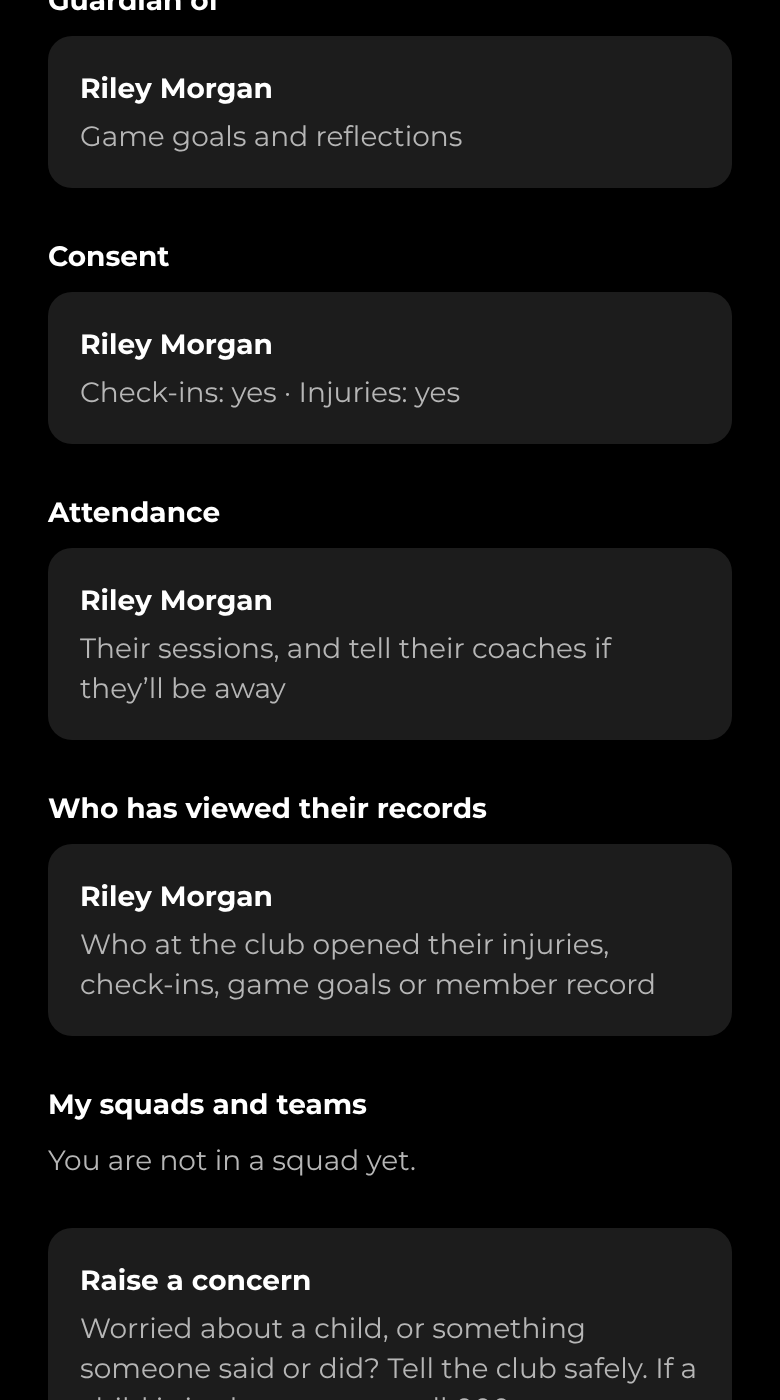
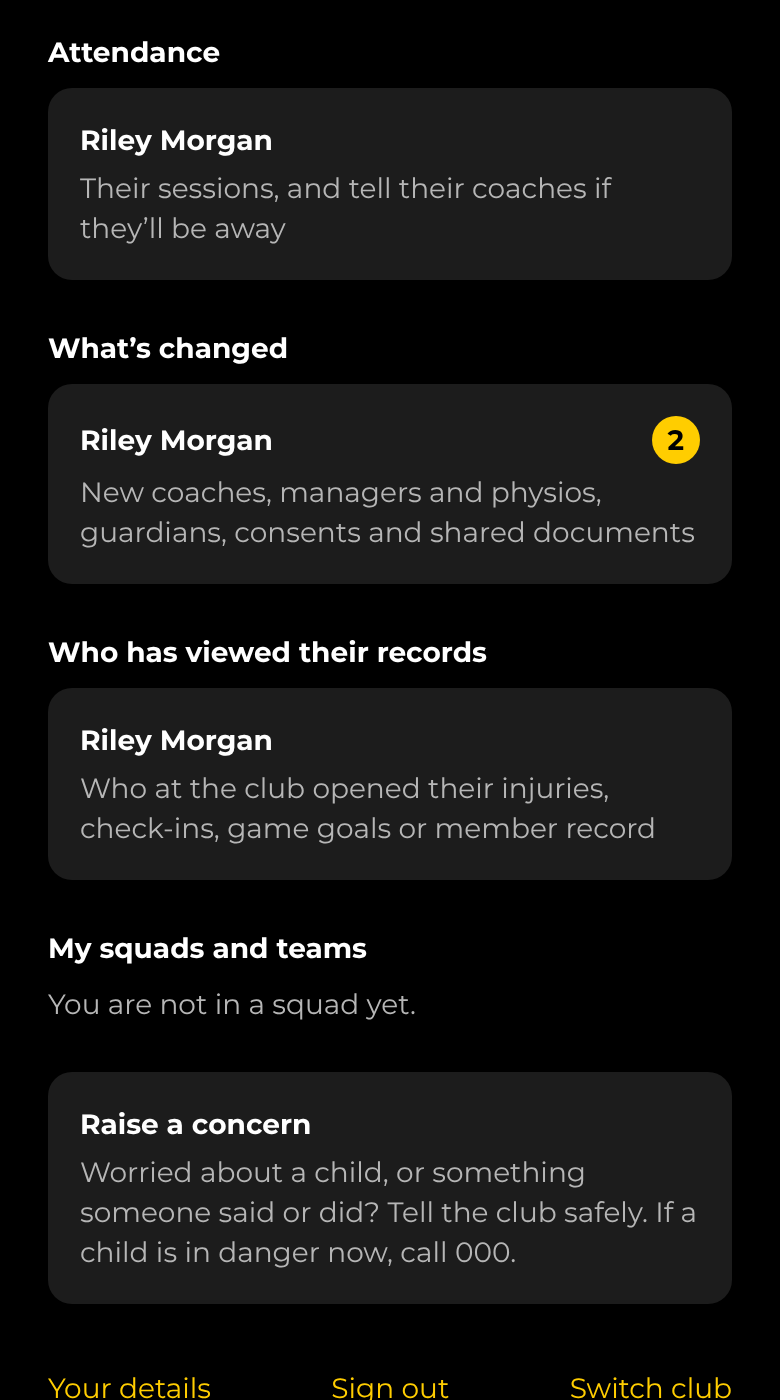
Show parents what has changed around their child (child safety finding 13)
Guardians get a "What's changed" list per child under 18: coaches, managers
and physios joining or leaving the child's squads and teams, the child's own
group changes, guardian links, consents and shared injury documents, with a
count of new items on the home screen.

Claude-Session: https://claude.ai/code/session_01PSj6UtGHkyxoGwMZG7YNkM

diff --git a/src/app/activity/[id].tsx b/src/app/activity/[id].tsx
@@ -1,0 +1,75 @@
+import { useFocusEffect, useLocalSearchParams } from 'expo-router';
+import { useCallback, useState } from 'react';
+import { StyleSheet, View } from 'react-native';
+
+import { Screen } from '@/components/screen';
+import { ThemedText } from '@/components/themed-text';
+import { Card } from '@/components/ui';
+import { Spacing } from '@/constants/theme';
+import { formatDateTime } from '@/lib/format';
+import { supabase } from '@/lib/supabase';
+
+type Activity = { kind: string; summary: string; happened_at: string };
+
+/**
+ * What has changed around an under 18, newest first, for their parents and
+ * guardians: adults joining or leaving their squads and teams, the child's
+ * own groups, guardian links, consents and shared injury documents.
+ */
+export default function ChildActivityScreen() {
+  const { id, name } = useLocalSearchParams<{ id: string; name?: string }>();
+  const [entries, setEntries] = useState<Activity[] | null>(null);
+  const [refreshing, setRefreshing] = useState(false);
+
+  const load = useCallback(async () => {
+    const { data } = await supabase.rpc('child_activity', { p_athlete_id: id });
+    setEntries((data as Activity[] | null) ?? []);
+    await supabase.rpc('mark_child_activity_seen', { p_athlete_id: id });
+  }, [id]);
+
+  useFocusEffect(
+    useCallback(() => {
+      load();
+    }, [load]),
+  );
+
+  async function onRefresh() {
+    setRefreshing(true);
+    await load();
+    setRefreshing(false);
+  }
+
+  const who = name ? `${name}’s` : 'their';
+
+  return (
+    <Screen refreshing={refreshing} onRefresh={onRefresh}>
+      <ThemedText type="small" themeColor="textSecondary">
+        Coaches, managers and physios added to or leaving {who} squads and teams, {who} own squad
+        and team changes, parents and guardians linked or unlinked, consents, and injury documents
+        shared out of the app. Newest first.
+      </ThemedText>
+      {entries === null ? null : entries.length === 0 ? (
+        <Card>
+          <ThemedText type="small" themeColor="textSecondary">
+            Nothing has changed yet.
+          </ThemedText>
+        </Card>
+      ) : (
+        <Card>
+          {entries.map((e, i) => (
+            <View key={`${e.happened_at}-${i}`} style={styles.row}>
+              <ThemedText type="small">{e.summary}</ThemedText>
+              <ThemedText type="small" themeColor="textSecondary">
+                {formatDateTime(new Date(e.happened_at))}
+              </ThemedText>
+            </View>
+          ))}
+        </Card>
+      )}
+    </Screen>
+  );
+}
+
+const styles = StyleSheet.create({
+  row: { gap: Spacing.half, paddingVertical: Spacing.one },
+});

diff --git a/src/app/index.tsx b/src/app/index.tsx
@@ -128,12 +128,22 @@ export default function HomeScreen() {
   });
 
   const isGuardian = profile?.status === 'approved' && hasRole(profile, 'guardian');
+  // How many changes each child has had since their guardian last looked.
+  const [activityNew, setActivityNew] = useState<Record<string, number>>({});
 
   // The athletes a parent or guardian looks after.
   const loadAthletes = useCallback(async () => {
     if (!isGuardian) return;
     // Each child under 18 with the consents in force for them.
-    const { data } = await supabase.rpc('my_child_consents');
+    const [{ data }, activity] = await Promise.all([
+      supabase.rpc('my_child_consents'),
+      supabase.rpc('child_activity_new'),
+    ]);
+    const counts: Record<string, number> = {};
+    for (const row of (activity.data as { athlete_id: string; new_count: number }[] | null) ?? []) {
+      counts[row.athlete_id] = row.new_count;
+    }
+    setActivityNew(counts);
     setAthletes(
       ((data as ChildConsent[] | null) ?? []).map((a) => ({
         id: a.athlete_id,
@@ -438,6 +448,33 @@ export default function HomeScreen() {
                 <ThemedText type="smallBold">{a.name}</ThemedText>
                 <ThemedText type="small" themeColor="textSecondary">
                   Their sessions, and tell their coaches if they’ll be away
+                </ThemedText>
+              </PressableCard>
+            ))}
+          </View>
+        ) : null}
+
+        {isGuardian && athletes.length > 0 ? (
+          <View style={styles.section}>
+            <ThemedText type="smallBold">What’s changed</ThemedText>
+            {athletes.map((a) => (
+              <PressableCard
+                key={a.id}
+                onPress={() =>
+                  router.push({ pathname: '/activity/[id]', params: { id: a.id, name: a.name } })
+                }>
+                <View style={styles.cardTitleRow}>
+                  <ThemedText type="smallBold">{a.name}</ThemedText>
+                  {(activityNew[a.id] ?? 0) > 0 ? (
+                    <View style={[styles.badge, { backgroundColor: theme.accent }]}>
+                      <ThemedText type="smallBold" style={{ color: theme.onAccent }}>
+                        {activityNew[a.id]}
+                      </ThemedText>
+                    </View>
+                  ) : null}
+                </View>
+                <ThemedText type="small" themeColor="textSecondary">
+                  New coaches, managers and physios, guardians, consents and shared documents
                 </ThemedText>
               </PressableCard>
             ))}

diff --git a/src/app/_layout.tsx b/src/app/_layout.tsx
@@ -161,6 +161,7 @@ function RootStack() {
           <Stack.Screen name="concern/new" options={{ title: 'Raise a concern' }} />
           <Stack.Screen name="consent/[id]" options={{ title: 'Consent' }} />
           <Stack.Screen name="records/[id]" options={{ title: 'Who has viewed their records' }} />
+          <Stack.Screen name="activity/[id]" options={{ title: 'What’s changed' }} />
           <Stack.Screen name="concerns/index" options={{ title: 'Concerns' }} />
           <Stack.Screen name="concerns/[id]" options={{ title: 'Concern' }} />
           <Stack.Screen name="concerns/report" options={{ title: 'Concerns register' }} />

diff --git a/docs/user-guide.md b/docs/user-guide.md
@@ -39,7 +39,7 @@ each of their roles can.
 | Role          | Who it's for                                                                                         |
 | ------------- | ---------------------------------------------------------------------------------------------------- |
 | **Athlete**   | Registered players. Some are club captains, or captains or vice captains of a squad or team. They see their own attendance and can report an absence. |
-| **Guardian**  | Parents and guardians of athletes under 18. They see their child's attendance and can report an absence for them. |
+| **Guardian**  | Parents and guardians of athletes under 18. They see their child's attendance and can report an absence for them, and see what has changed around their child. |
 | **Coach**     | Head coaches and assistant coaches. Both have the same permissions; the title only shows who is who. Need a current Working With Children Check; the role pauses while it's expired. A parent volunteering at their child's club, or a volunteer under 18, has an exemption instead (see [Volunteer exemptions](#volunteer-exemptions)). |
 | **Manager**   | Squad and team managers. Need a current Working With Children Check; the role pauses while it's expired. A parent volunteering at their child's club, or a volunteer under 18, has an exemption instead (see [Volunteer exemptions](#volunteer-exemptions)). |
 | **Committee** | Club committee members. Each can add a title, such as President or Secretary, shown with their role. Need a current Working With Children Check unless an admin exempts them; the role pauses if a recorded check expires. |
@@ -656,7 +656,26 @@ and last day and, if you like, a reason. It works the same as for athletes (see
 parents or guardians see what you report. An absent session that matches a reported absence shows as
 **Absent, reported**. You stop seeing your child's attendance on their 18th birthday.
 
-<img src="user-guide/records-home.png" width="210" alt="Attendance and Who has viewed their records on a parent's home screen">
+<img src="user-guide/records-home.png" width="210" alt="Attendance, What's changed and Who has viewed their records on a parent's home screen">
+
+### What's changed for your child
+
+**What's changed** on your home screen lists each child under 18, with a number when something has
+happened since you last looked. Open it to see, newest first:
+
+- a coach, manager or physio added to, or no longer in, a squad or team your child is in (from when
+  your child joined it)
+- your child added to or removed from a squad or team
+- a parent or guardian linked or unlinked, and by which admin
+- a consent given or withdrawn, and by whom
+- one of your child's injury documents shared out of the app, and by whom
+
+If an adult is stood down, you see only that they're no longer in the group; the reason stays with
+the club's admins. Ordinary views of your child's records are under
+[Who has viewed your child's records](#who-has-viewed-your-childs-records). The list stops on your
+child's 18th birthday.
+
+<img src="user-guide/activity-guardian.png" width="210" alt="What's changed for a parent's child">
 
 As a guardian you:
 
@@ -682,6 +701,8 @@ As a guardian you:
   by whom and when, and what was confirmed about each photo.
 - **See your athlete's attendance and report absences** (see
   [Your child's attendance](#your-childs-attendance)).
+- **See what's changed around your athlete**: new adults in their groups, guardians, consents and
+  shared documents (see [What's changed for your child](#whats-changed-for-your-child)).
 - **See who has viewed your athlete's records**: everyone who opened their injuries, check-ins,
   game goals or member record (see [Who has viewed your child's records](#who-has-viewed-your-childs-records)).
 - **Complete integrity training** for your athlete: their training shows in your to-do list and
@@ -1850,6 +1871,7 @@ once saved, only replaced or removed, and anyone who gets it wrong five times in
 | Team goals              | The team's athletes, their guardians and its coaches. Only its coaches set and review them. Athletes and coaches in the team can comment; guardians read the comments. |
 | Integrity training certificates | The member, their parents or guardians, the committee and admins. Coaches don't see them. Certificates can't be changed or removed once sent. |
 | Attendance records      | Coaches, the committee and admins. Managers see their own groups' sessions. An athlete sees their own marks, and their parents or guardians see them until the athlete turns 18; neither sees other athletes on the register. |
+| What's changed for a child | Their parents or guardians (until the child turns 18) and admins: adults joining or leaving the child's squads and teams, the child's own group changes, guardian links, consents and shared injury documents. A stand-down shows only as the adult leaving. |
 | Reported absences       | The athlete, their parents or guardians, the coaches and managers of the athlete's squads and teams, the committee and admins. Physios don't see them. |
 | Committee calendar      | Committee members and admins.                                                                                               |
 | Award votes             | Only the voter sees their own ballot. Nobody, admins included, can see who someone voted for.                               |
@@ -1941,6 +1963,10 @@ Working With Children Check, and another admin must do it.
 - **You see what your child sees.** You get a copy of every message sent to your child, and of every
   message your child sends as a captain. You can read their daily check-ins and notes, their game
   goals and their injuries, and whether they were at each session.
+- **You're told when something changes.** A new coach, manager or physio in your child's group,
+  your child moving group, a guardian linked or unlinked, a consent changing or an injury document
+  shared out of the app all show under **What's changed** (see
+  [What's changed for your child](#whats-changed-for-your-child)).
 - **You can tell the club your child will be away**, so an absence you didn't report stands out
   (see [Your child's attendance](#your-childs-attendance)).
 - **Nothing is shared without your consent.** Your child's check-ins and injuries are seen by
